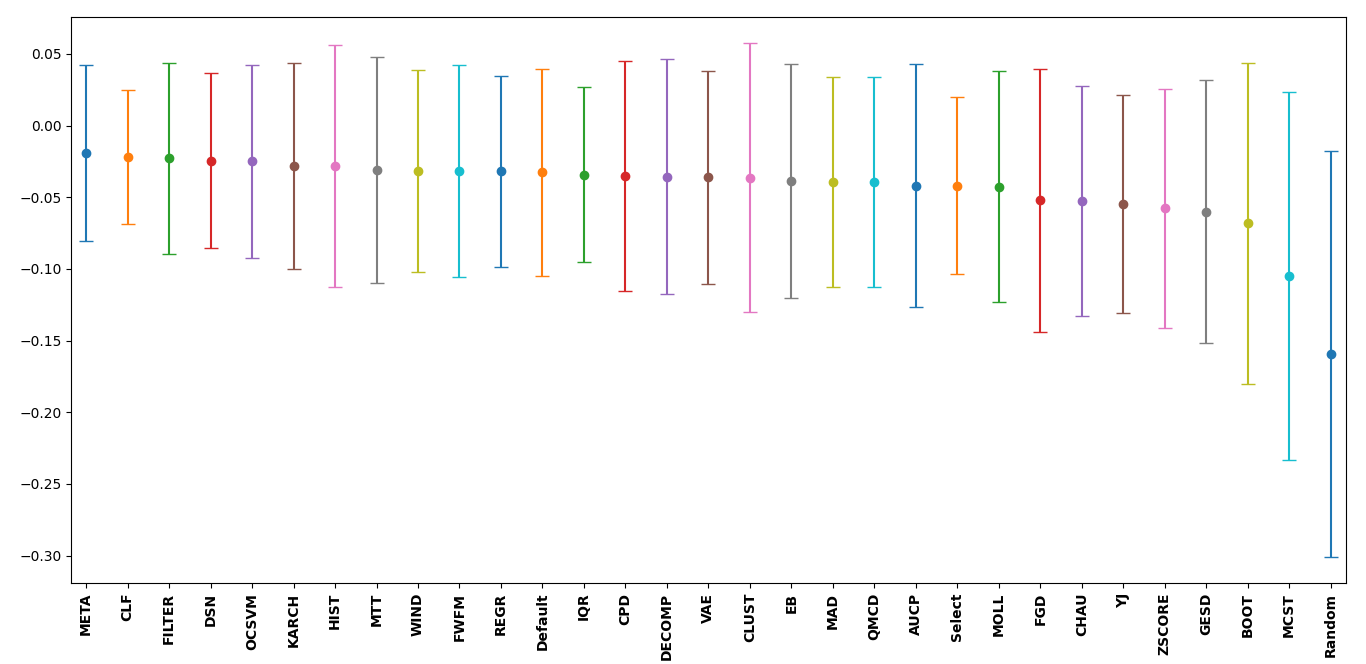
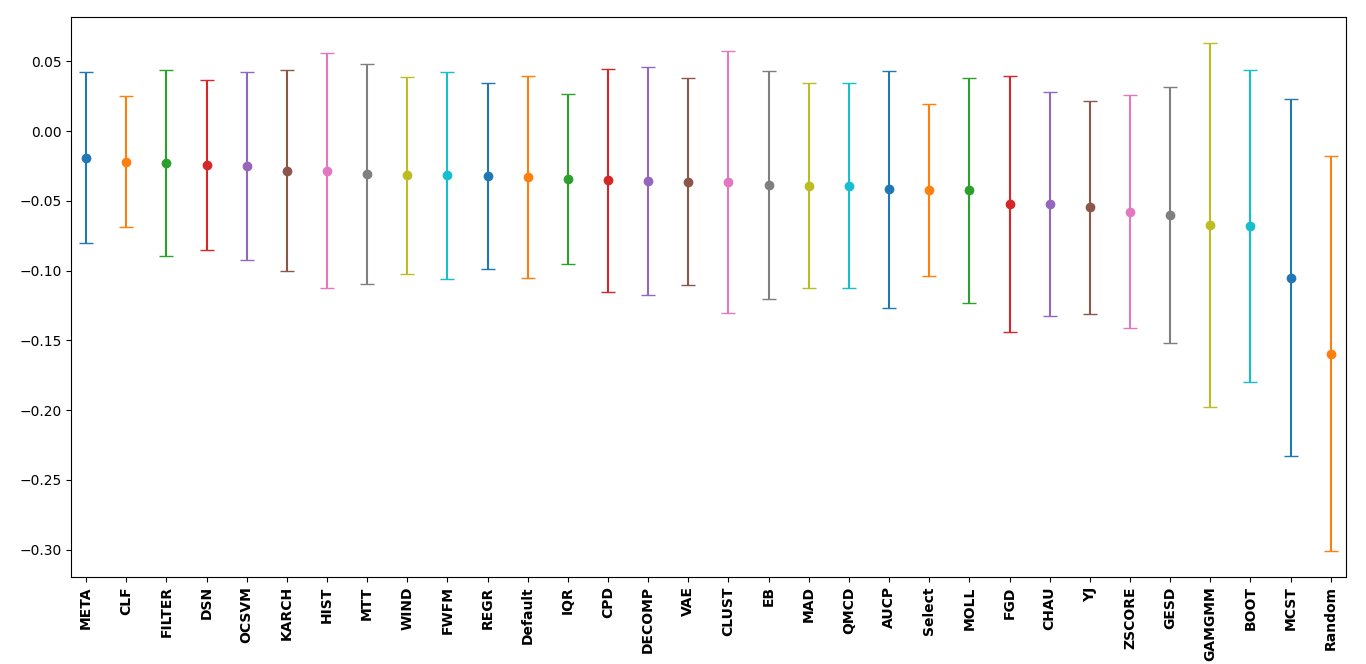
Updated benchmarking

diff --git a/docs/benchmark.rst b/docs/benchmark.rst
@@ -279,6 +279,36 @@ dataset with fewer examples and a greater bias.
 
 ----
 
+Multiple outlier detection likelihood score sets as of ``PyThresh``
+version 0.3.3 can now also be thresholded. This functionality is
+achieved by decomposing the score set using 1D TruncatedSVD
+decomposition. This allows the decomposed scores to capture a more
+robust outlier likelihood score set. To benchmark these scores a similar
+setup is followed as the first benchmark test, however, the labels were
+set using the true contamination applied to the decomposed scores as the
+right-hand component of the MCC deterioration equation.
+
+.. figure:: figs/Multi1.png
+   :alt: Benchmark multiple
+
+However, to effectively compare whether the multiple outlier detection
+likelihood score set performed better than using a single outlier
+likelihood score set they must both be benchmarked against the same
+comparison. This can be done by setting the right-hand component of the
+MCC deterioration to the true labels such that the right-hand component
+is equal to 1. Below is a dumbbell comparison plot between using single
+or multiple outlier likelihood score sets for thresholding. Above each
+comparison a performance percentage indicates how much better or worse
+multiple scores performed to using single score thresholding. From this,
+it can be shown that by using a multiple outlier likelihood score set
+it generally performs better than using a single outlier likelihood
+scores set.
+
+.. figure:: figs/Multi2.png
+   :alt: Benchmark multiple comparison
+
+----
+
 ***********************
  External Benchmarking
 ***********************
